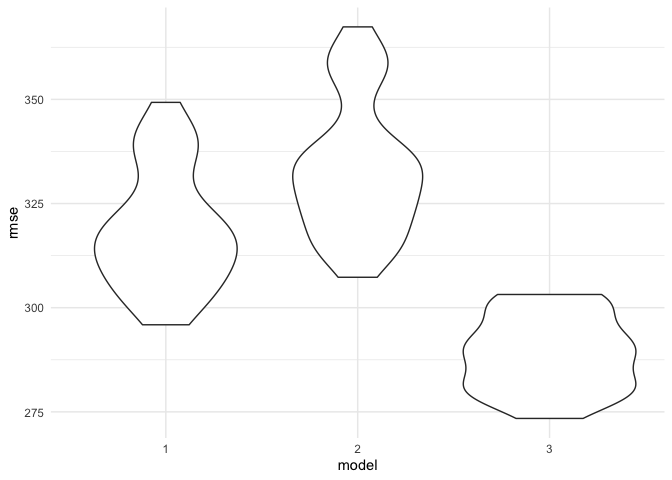
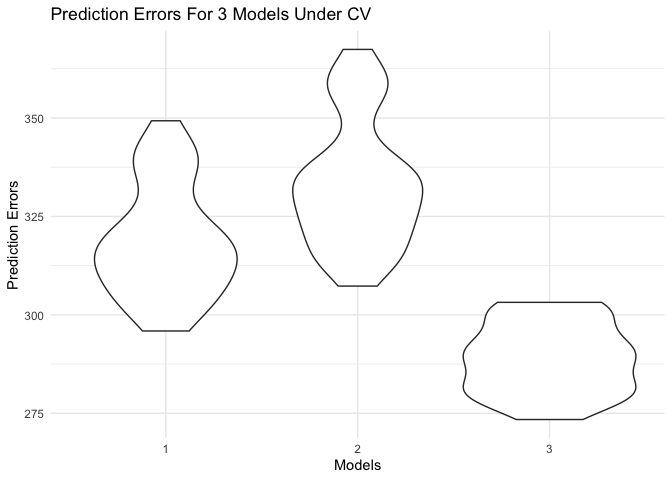
Add labs for the prediction errors plot

diff --git a/p8105_hw6_ys3637.md b/p8105_hw6_ys3637.md
@@ -502,7 +502,13 @@ cv_df %>%
     values_to = "rmse",
     names_prefix = "rmse_") %>% 
   mutate(model = fct_inorder(model)) %>% 
-  ggplot(aes(x = model, y = rmse)) + geom_violin()
+  ggplot(aes(x = model, y = rmse)) + 
+  geom_violin() +
+  labs(
+    title = "Prediction Errors For 3 Models Under CV",
+    x = "Models",
+    y = "Prediction Errors"
+  ) 
 ```
 
 ![](p8105_hw6_ys3637_files/figure-gfm/unnamed-chunk-12-1.png)<!-- -->
